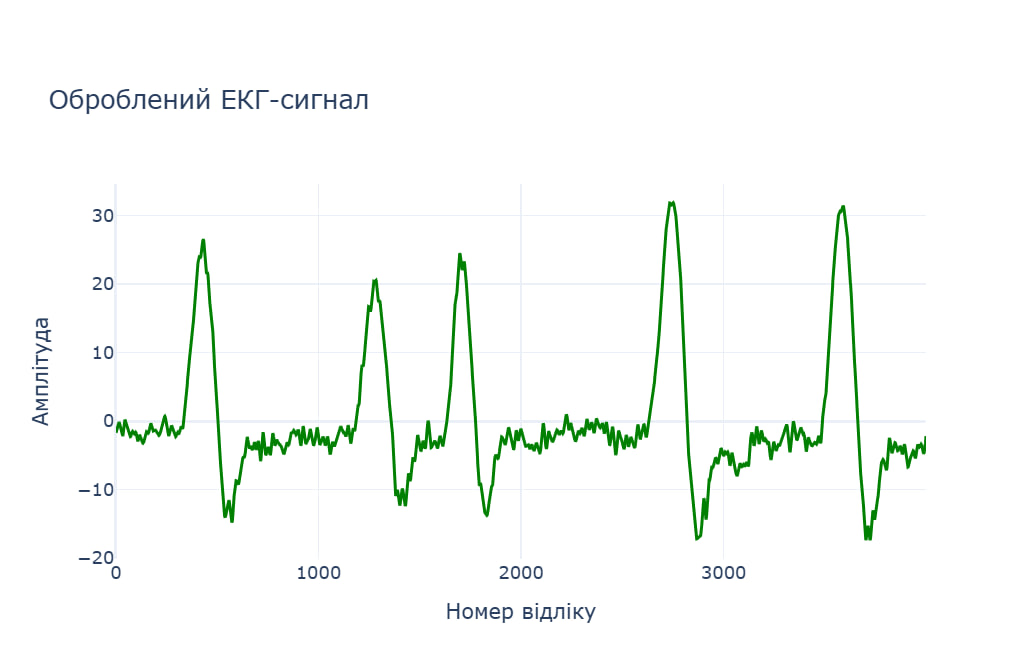
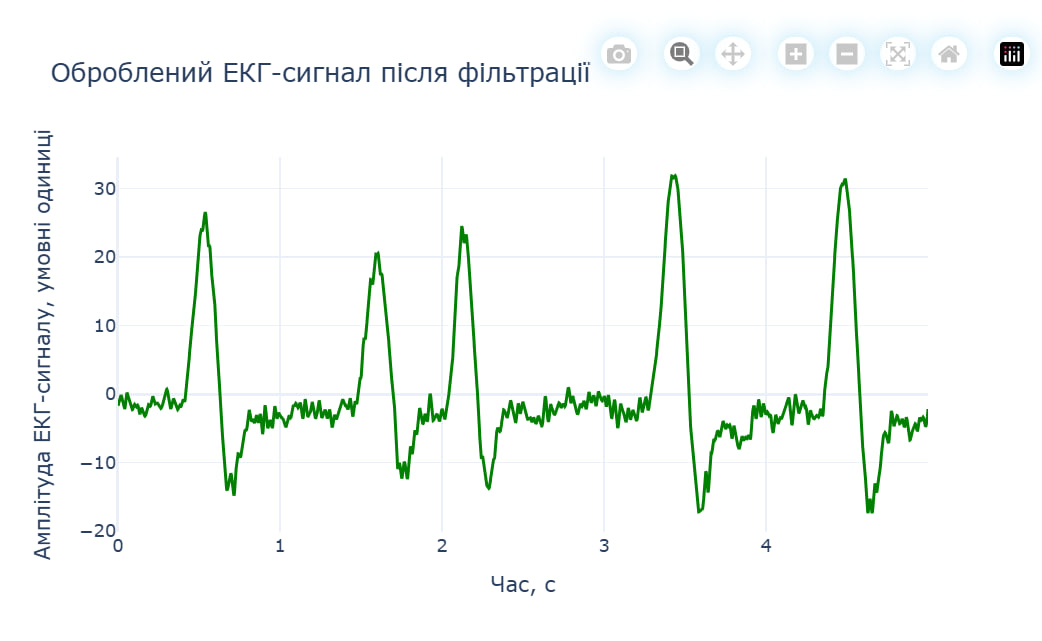
Updated project

diff --git a/modules/visualization.py b/modules/visualization.py
@@ -5,17 +5,29 @@ import plotly.io as pio
 from scipy.signal import find_peaks
 
 
+VISIBLE_SAMPLES = 4000
+
+
 def prepare_plots_folder():
     folder = "static/plots"
     os.makedirs(folder, exist_ok=True)
     return folder
 
 
-def create_single_plot(signal, title, line_name, color):
+def create_time_axis(signal, fs):
+    visible_length = min(len(signal), VISIBLE_SAMPLES)
+    return np.arange(visible_length) / fs
+
+
+def create_single_plot(signal, title, line_name, color, fs=800):
+    visible_signal = signal[:VISIBLE_SAMPLES]
+    time_axis = create_time_axis(signal, fs)
+
     fig = go.Figure()
 
     fig.add_trace(go.Scatter(
-        y=signal[:4000],
+        x=time_axis,
+        y=visible_signal,
         mode="lines",
         name=line_name,
         line=dict(color=color)
@@ -23,8 +35,8 @@ def create_single_plot(signal, title, line_name, color):
 
     fig.update_layout(
         title=title,
-        xaxis_title="Номер відліку",
-        yaxis_title="Амплітуда",
+        xaxis_title="Час, с",
+        yaxis_title="Амплітуда ЕКГ-сигналу, умовні одиниці",
         template="plotly_white",
         autosize=False,
         width=700,
@@ -35,7 +47,8 @@ def create_single_plot(signal, title, line_name, color):
 
 
 def create_r_peaks_plot(signal, fs=800):
-    visible_signal = signal[:4000]
+    visible_signal = signal[:VISIBLE_SAMPLES]
+    time_axis = create_time_axis(signal, fs)
 
     peaks, _ = find_peaks(
         visible_signal,
@@ -46,6 +59,7 @@ def create_r_peaks_plot(signal, fs=800):
     fig = go.Figure()
 
     fig.add_trace(go.Scatter(
+        x=time_axis,
         y=visible_signal,
         mode="lines",
         name="Оброблений ЕКГ-сигнал",
@@ -53,17 +67,17 @@ def create_r_peaks_plot(signal, fs=800):
     ))
 
     fig.add_trace(go.Scatter(
-        x=peaks,
+        x=time_axis[peaks],
         y=visible_signal[peaks],
         mode="markers",
-        name="R-піки",
+        name="Виявлені R-піки",
         marker=dict(color="orange", size=8)
     ))
 
     fig.update_layout(
         title="Виявлення R-піків на ЕКГ-сигналі",
-        xaxis_title="Номер відліку",
-        yaxis_title="Амплітуда",
+        xaxis_title="Час, с",
+        yaxis_title="Амплітуда ЕКГ-сигналу, умовні одиниці",
         template="plotly_white",
         autosize=False,
         width=700,
@@ -90,14 +104,14 @@ def create_spectrum_plot(signal, title, color, fs=800):
         x=positive_freqs,
         y=positive_magnitude,
         mode="lines",
-        name="Спектр",
+        name="Амплітудний спектр",
         line=dict(color=color)
     ))
 
     fig.update_layout(
         title=title,
-        xaxis_title="Частота (Гц)",
-        yaxis_title="Амплітуда",
+        xaxis_title="Частота, Гц",
+        yaxis_title="Амплітуда спектра, умовні одиниці",
         template="plotly_white",
         autosize=False,
         width=700,
@@ -115,21 +129,24 @@ def create_signal_plots_dict(original_signal, processed_signal, fs=800):
             original_signal,
             "Початковий ЕКГ-сигнал",
             "Початковий сигнал",
-            "blue"
+            "blue",
+            fs
         ),
 
         "processed": create_single_plot(
             processed_signal,
-            "Оброблений ЕКГ-сигнал",
+            "Оброблений ЕКГ-сигнал після фільтрації",
             "Оброблений сигнал",
-            "green"
+            "green",
+            fs
         ),
 
         "noise": create_single_plot(
             noise_signal,
-            "Видалений шумовий компонент",
-            "Видалений шум",
-            "red"
+            "Шумовий компонент, видалений під час обробки",
+            "Шумовий компонент",
+            "red",
+            fs
         ),
 
         "r_peaks": create_r_peaks_plot(
@@ -160,11 +177,15 @@ def save_plot_image(fig, filename):
     return path
 
 
-def create_ecg_fragment_image(processed_signal):
+def create_ecg_fragment_image(processed_signal, fs=800):
+    visible_signal = processed_signal[:VISIBLE_SAMPLES]
+    time_axis = create_time_axis(processed_signal, fs)
+
     fig = go.Figure()
 
     fig.add_trace(go.Scatter(
-        y=processed_signal[:4000],
+        x=time_axis,
+        y=visible_signal,
         mode="lines",
         name="Оброблений ЕКГ-сигнал",
         line=dict(color="#00AEEF", width=2)
@@ -172,8 +193,8 @@ def create_ecg_fragment_image(processed_signal):
 
     fig.update_layout(
         title="Фрагмент обробленого ЕКГ-сигналу",
-        xaxis_title="Номер відліку",
-        yaxis_title="Амплітуда",
+        xaxis_title="Час, секунди",
+        yaxis_title="Амплітуда ЕКГ-сигналу, умовні одиниці",
         template="plotly_dark",
         paper_bgcolor="#06111F",
         plot_bgcolor="#06111F",
@@ -188,7 +209,8 @@ def create_ecg_fragment_image(processed_signal):
 
 
 def create_r_peaks_image(processed_signal, fs=800):
-    visible_signal = processed_signal[:4000]
+    visible_signal = processed_signal[:VISIBLE_SAMPLES]
+    time_axis = create_time_axis(processed_signal, fs)
 
     peaks, _ = find_peaks(
         visible_signal,
@@ -199,24 +221,25 @@ def create_r_peaks_image(processed_signal, fs=800):
     fig = go.Figure()
 
     fig.add_trace(go.Scatter(
+        x=time_axis,
         y=visible_signal,
         mode="lines",
-        name="ЕКГ",
+        name="Оброблений ЕКГ-сигнал",
         line=dict(color="#00AEEF", width=2)
     ))
 
     fig.add_trace(go.Scatter(
-        x=peaks,
+        x=time_axis[peaks],
         y=visible_signal[peaks],
         mode="markers",
-        name="R-піки",
+        name="Виявлені R-піки",
         marker=dict(color="#22C55E", size=8)
     ))
 
     fig.update_layout(
         title="Виявлення R-піків",
-        xaxis_title="Номер відліку",
-        yaxis_title="Амплітуда",
+        xaxis_title="Час, с",
+        yaxis_title="Амплітуда ЕКГ-сигналу, умовні одиниці",
         template="plotly_dark",
         paper_bgcolor="#06111F",
         plot_bgcolor="#06111F",
@@ -247,14 +270,14 @@ def create_spectrum_image(original_signal, fs=800):
         x=positive_freqs,
         y=positive_magnitude,
         mode="lines",
-        name="Спектр",
+        name="Амплітудний спектр",
         line=dict(color="#A855F7", width=2)
     ))
 
     fig.update_layout(
         title="Спектральний аналіз ЕКГ-сигналу",
-        xaxis_title="Частота (Гц)",
-        yaxis_title="Амплітуда",
+        xaxis_title="Частота, Гц",
+        yaxis_title="Амплітуда спектра, умовні одиниці",
         template="plotly_dark",
         paper_bgcolor="#06111F",
         plot_bgcolor="#06111F",
@@ -271,7 +294,8 @@ def create_spectrum_image(original_signal, fs=800):
 def create_pdf_plot_images(original_signal, processed_signal, fs=800):
     return {
         "ecg_fragment": create_ecg_fragment_image(
-            processed_signal
+            processed_signal,
+            fs
         ),
 
         "r_peaks": create_r_peaks_image(
